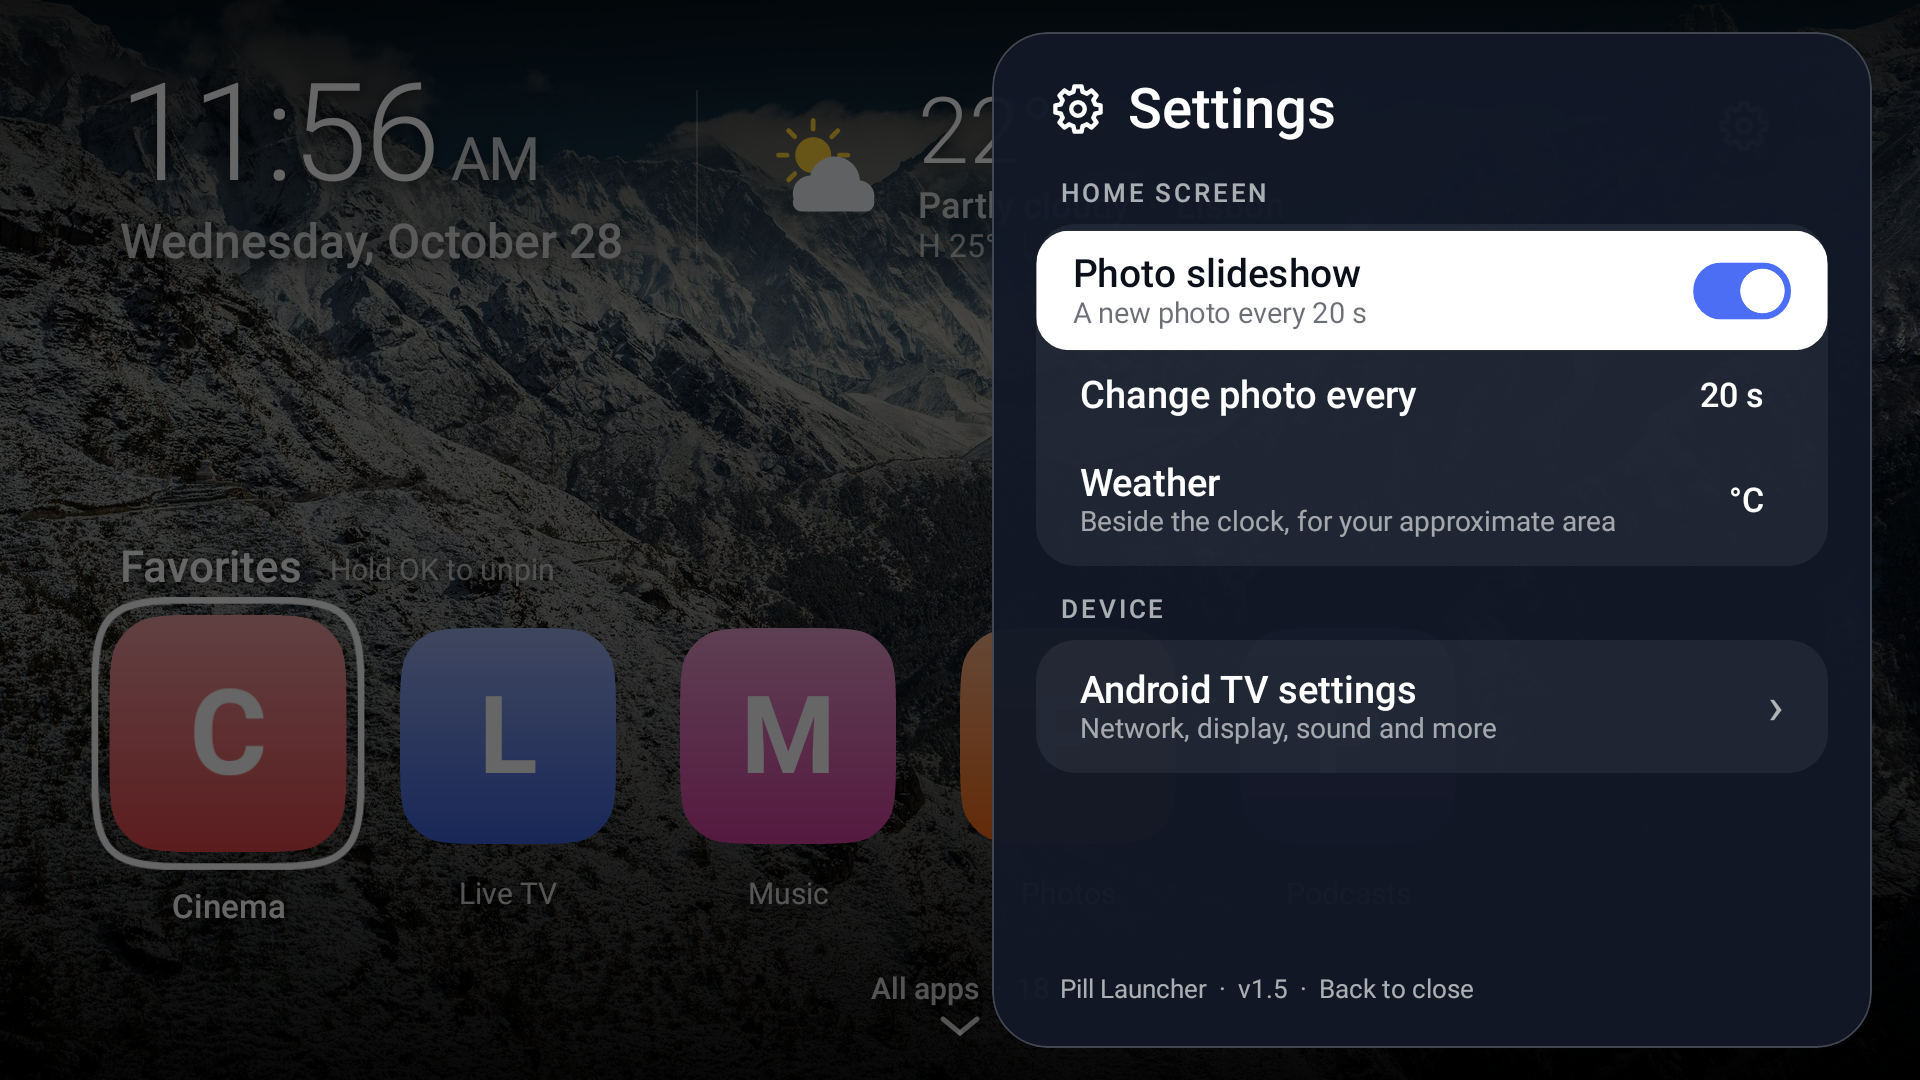
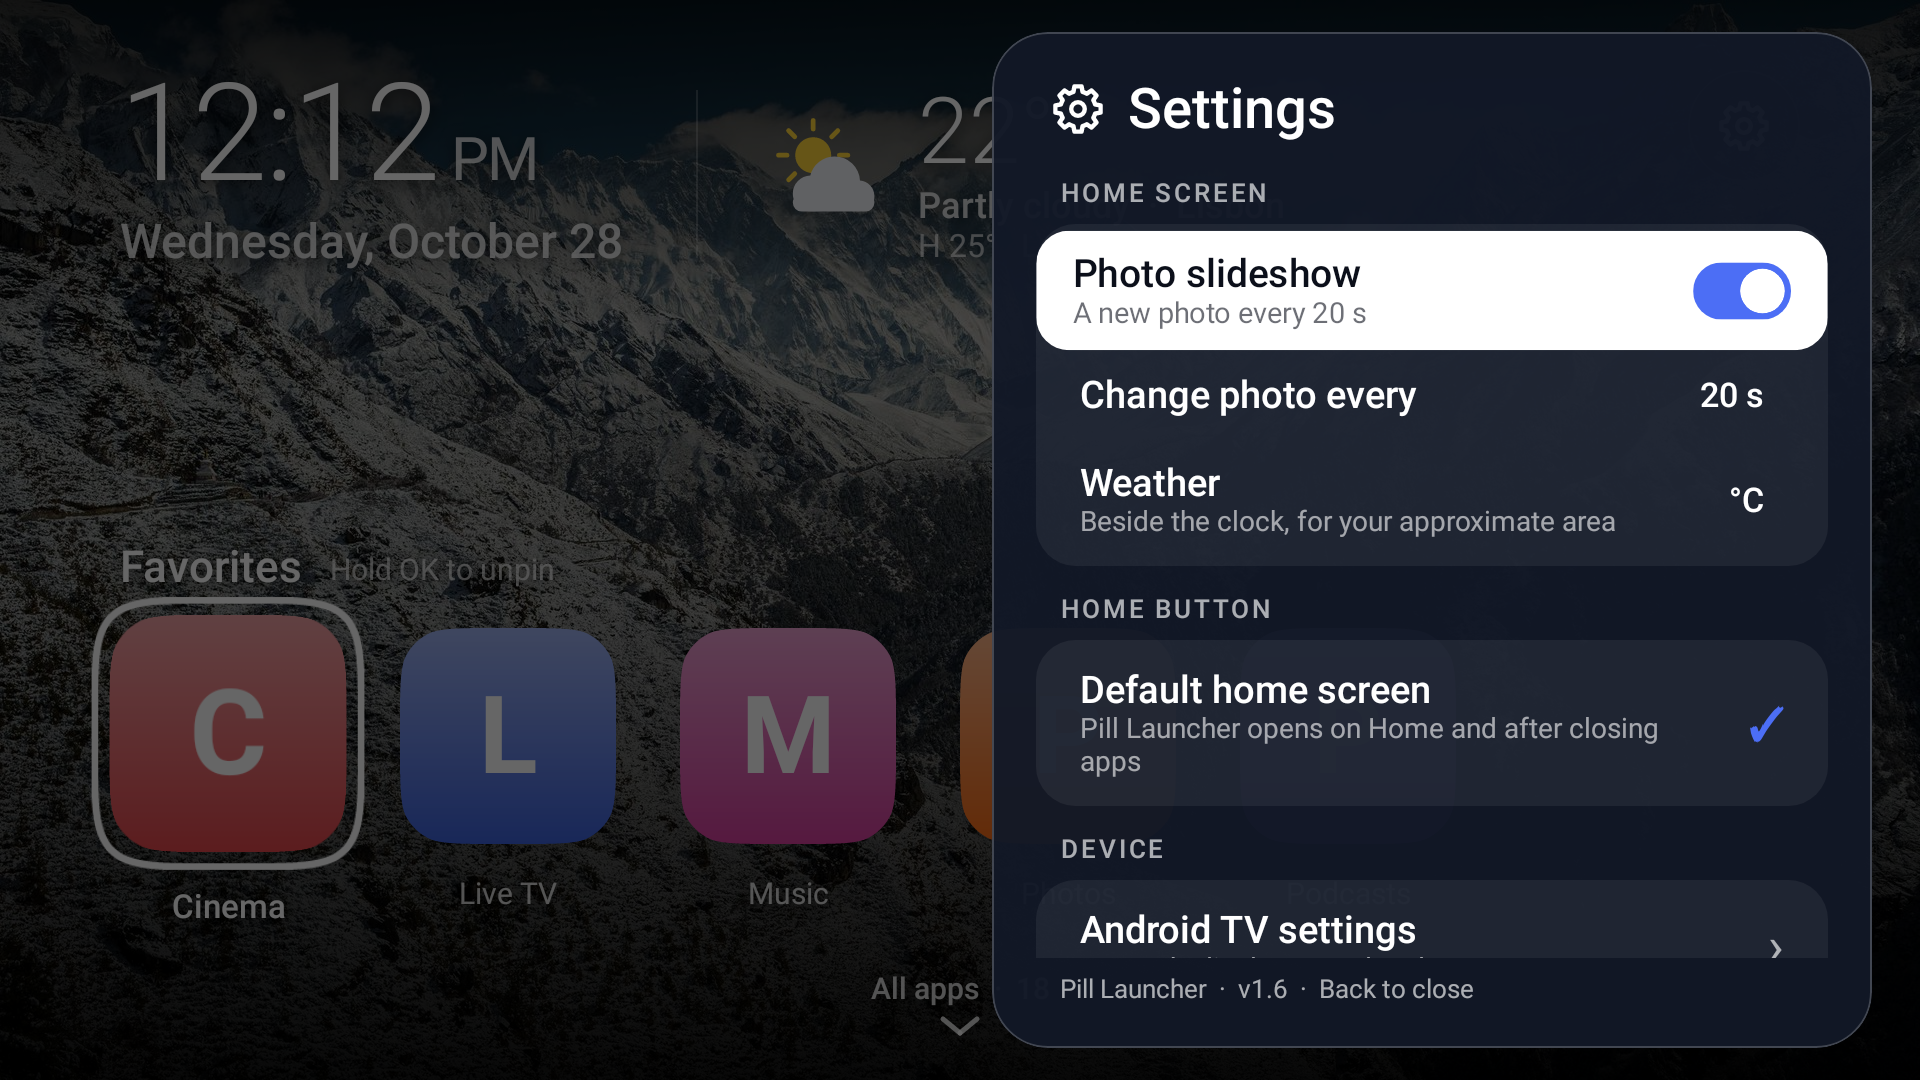
Pill Launcher 1.6: default home screen option and Home button helper (#10)
* Settings: make Pill Launcher the default home, or a Home button helper

- Default home screen: requests the home role (Android 10+), else opens the
  Home app settings, else the Home chooser; says so when the TV allows none
- Home button helper: an opt-in accessibility service for TVs that lock the
  home screen. When the stock launcher comes to the front (Home, an app closed
  or killed) it reopens Pill Launcher. It listens only to window-change events
  and never reads window content
- Both rows show their current state, re-checked when the launcher resumes
- Package visibility for the HOME intent; README, changelog, version 1.6

Claude-Session: https://claude.ai/code/session_01K2a1gPavAD836buEZXZJS4

* Update README screenshots

---------

diff --git a/app/src/main/java/app/pill/launcher/ui/SettingsPanel.kt b/app/src/main/java/app/pill/launcher/ui/SettingsPanel.kt
@@ -63,6 +63,7 @@ import androidx.compose.ui.unit.dp
 import androidx.compose.ui.unit.sp
 import androidx.compose.ui.window.Dialog
 import androidx.compose.ui.window.DialogProperties
+import app.pill.launcher.HomeStatus
 import app.pill.launcher.LauncherSettings
 import app.pill.launcher.WeatherMode
 import kotlinx.coroutines.delay
@@ -85,7 +86,13 @@ fun SettingsPanel(
     /** Why photos or weather last failed to load, shown under their rows; null when fine. */
     photoError: String? = null,
     weatherError: String? = null,
+    home: HomeStatus = HomeStatus(isDefault = true, redirectOn = false),
+    onMakeDefault: () -> String? = { null },
+    onHomeHelper: () -> String? = { null },
 ) {
+    // A message from the last attempt, shown under the row until the panel closes
+    var defaultNote by remember { mutableStateOf<String?>(null) }
+    var helperNote by remember { mutableStateOf<String?>(null) }
     val firstRow = remember { FocusRequester() }
     val visible = remember { MutableTransitionState(false).apply { targetState = true } }
     val close = { visible.targetState = false }
@@ -176,6 +183,30 @@ fun SettingsPanel(
                                 },
                             ) { focused ->
                                 Stepper(weatherLabel(settings.weather), mode > 0, mode < modes.lastIndex, focused)
+                            }
+                        }
+
+                        Group("Home button") {
+                            SettingRow(
+                                title = "Default home screen",
+                                subtitle = defaultNote ?: if (home.isDefault) {
+                                    "Pill Launcher opens on Home and after closing apps"
+                                } else {
+                                    "Make Pill Launcher open on Home and after closing apps"
+                                },
+                                onClick = { if (!home.isDefault) defaultNote = onMakeDefault() },
+                            ) { focused -> if (home.isDefault) Check(focused) else Chevron(focused) }
+
+                            if (!home.isDefault) {
+                                SettingRow(
+                                    title = "Home button helper",
+                                    subtitle = helperNote ?: if (home.redirectOn) {
+                                        "On: returns here whenever the TV's own home screen opens"
+                                    } else {
+                                        "For TVs that won't change their home screen. Turn on \"Pill Launcher Home button\" in Accessibility"
+                                    },
+                                    onClick = { helperNote = onHomeHelper() },
+                                ) { focused -> if (home.redirectOn) Check(focused) else Chevron(focused) }
                             }
                         }
 
@@ -326,6 +357,11 @@ private fun Stepper(value: String, canDecrease: Boolean, canIncrease: Boolean, f
         )
         if (focused) Text("›", color = color.copy(alpha = if (canIncrease) 0.85f else 0.2f), fontSize = 24.sp)
     }
+}
+
+@Composable
+private fun Check(focused: Boolean) {
+    Text("✓", color = if (focused) Palette.Ink else Palette.Accent, fontSize = 22.sp, fontWeight = FontWeight.Bold)
 }
 
 @Composable

diff --git a/app/src/main/java/app/pill/launcher/HomeSetup.kt b/app/src/main/java/app/pill/launcher/HomeSetup.kt
@@ -1,0 +1,67 @@
+package app.pill.launcher
+
+import android.app.Activity
+import android.app.role.RoleManager
+import android.content.ActivityNotFoundException
+import android.content.ComponentName
+import android.content.Context
+import android.content.Intent
+import android.content.pm.PackageManager
+import android.os.Build
+import android.provider.Settings
+
+/** Whether Pill Launcher is the home screen, and whether the Home-button helper is on. */
+data class HomeStatus(val isDefault: Boolean, val redirectOn: Boolean)
+
+fun Context.homeStatus() = HomeStatus(isDefaultHome(), isRedirectEnabled())
+
+private val homeIntent get() = Intent(Intent.ACTION_MAIN).addCategory(Intent.CATEGORY_HOME)
+
+fun Context.isDefaultHome(): Boolean =
+    packageManager.resolveActivity(homeIntent, PackageManager.MATCH_DEFAULT_ONLY)
+        ?.activityInfo?.packageName == packageName
+
+/** Packages of the other home screens on this TV (the stock launcher among them). */
+fun Context.otherHomePackages(): Set<String> =
+    packageManager.queryIntentActivities(homeIntent, 0)
+        .map { it.activityInfo.packageName }
+        .filter { it != packageName && it != "android" && !it.contains("settings", ignoreCase = true) }
+        .toSet()
+
+fun Context.isRedirectEnabled(): Boolean {
+    val me = ComponentName(this, HomeRedirectService::class.java).flattenToString()
+    val enabled = Settings.Secure.getString(contentResolver, Settings.Secure.ENABLED_ACCESSIBILITY_SERVICES).orEmpty()
+    return enabled.split(':').any { it.equals(me, ignoreCase = true) }
+}
+
+/**
+ * Asks Android to make Pill Launcher the home screen, trying in turn: the system's
+ * "default home app" request (Android 10+), the Home app settings screen, and the
+ * Home chooser. Returns a message for the user when none of these exist on this TV.
+ */
+fun Activity.requestDefaultHome(): String? {
+    if (Build.VERSION.SDK_INT >= Build.VERSION_CODES.Q) {
+        val roles = getSystemService(RoleManager::class.java)
+        if (roles != null && roles.isRoleAvailable(RoleManager.ROLE_HOME) && !roles.isRoleHeld(RoleManager.ROLE_HOME)) {
+            if (tryStart { startActivityForResult(roles.createRequestRoleIntent(RoleManager.ROLE_HOME), 1) }) return null
+        }
+    }
+    if (tryStart { startActivity(Intent(Settings.ACTION_HOME_SETTINGS)) }) return null
+    // With no default chosen yet, pressing Home shows a chooser; show it now
+    val resolved = packageManager.resolveActivity(homeIntent, PackageManager.MATCH_DEFAULT_ONLY)
+    if (resolved?.activityInfo?.packageName == "android" && tryStart { startActivity(homeIntent) }) return null
+    return "This TV doesn't let apps change the home screen. Turn on the Home button helper below instead."
+}
+
+fun Activity.openAccessibilitySettings(): String? =
+    if (tryStart { startActivity(Intent(Settings.ACTION_ACCESSIBILITY_SETTINGS)) }) null
+    else "Couldn't open Accessibility settings on this TV."
+
+private inline fun tryStart(block: () -> Unit): Boolean = try {
+    block()
+    true
+} catch (e: ActivityNotFoundException) {
+    false
+} catch (e: SecurityException) {
+    false
+}

diff --git a/app/src/main/java/app/pill/launcher/HomeRedirectService.kt b/app/src/main/java/app/pill/launcher/HomeRedirectService.kt
@@ -1,0 +1,50 @@
+package app.pill.launcher
+
+import android.accessibilityservice.AccessibilityService
+import android.content.Intent
+import android.os.SystemClock
+import android.view.accessibility.AccessibilityEvent
+
+/**
+ * Optional helper for TVs that don't let apps become the home screen (most Google TV
+ * devices). When the TV's own home screen comes to the front (Home pressed, or an app
+ * closed or killed), it brings Pill Launcher back. It only looks at which app's window
+ * appeared, never at what is on screen. The user turns it on in Accessibility settings.
+ */
+class HomeRedirectService : AccessibilityService() {
+
+    private var stockHomes: Set<String> = emptySet()
+    private var lastRedirect = 0L
+
+    override fun onServiceConnected() {
+        stockHomes = otherHomePackages() + KnownTvLaunchers
+    }
+
+    override fun onAccessibilityEvent(event: AccessibilityEvent) {
+        if (event.eventType != AccessibilityEvent.TYPE_WINDOW_STATE_CHANGED) return
+        val pkg = event.packageName?.toString() ?: return
+        if (pkg !in stockHomes || isDefaultHome()) return
+        // The stock launcher can post several window changes in a row; act once
+        val now = SystemClock.elapsedRealtime()
+        if (now - lastRedirect < 1500) return
+        lastRedirect = now
+        startActivity(
+            Intent(this, MainActivity::class.java)
+                .setAction(Intent.ACTION_MAIN)
+                .addCategory(Intent.CATEGORY_HOME)
+                .addFlags(Intent.FLAG_ACTIVITY_NEW_TASK or Intent.FLAG_ACTIVITY_RESET_TASK_IF_NEEDED),
+        )
+    }
+
+    override fun onInterrupt() = Unit
+
+    private companion object {
+        /** Stock launchers of Google TV and Android TV, in case they don't answer the Home query. */
+        val KnownTvLaunchers = setOf(
+            "com.google.android.apps.tv.launcherx",
+            "com.google.android.tvlauncher",
+            "com.google.android.leanbacklauncher",
+            "com.amazon.tv.launcher",
+        )
+    }
+}

diff --git a/app/src/main/java/app/pill/launcher/ui/LauncherScreen.kt b/app/src/main/java/app/pill/launcher/ui/LauncherScreen.kt
@@ -75,6 +75,7 @@ import androidx.compose.ui.text.font.FontWeight
 import androidx.compose.ui.unit.dp
 import androidx.compose.ui.unit.sp
 import app.pill.launcher.AppEntry
+import app.pill.launcher.HomeStatus
 import app.pill.launcher.LauncherSettings
 import app.pill.launcher.Weather
 import kotlinx.coroutines.delay
@@ -107,6 +108,11 @@ fun LauncherScreen(
     onOpenSystemSettings: () -> Unit,
     /** Bumped each time Home is pressed while the launcher is already showing. */
     homePresses: Int = 0,
+    home: HomeStatus = HomeStatus(isDefault = true, redirectOn = false),
+    /** Ask to become the home screen; returns a message if this TV can't. */
+    onMakeDefault: () -> String? = { null },
+    /** Open Accessibility settings for the Home button helper; returns a message on failure. */
+    onHomeHelper: () -> String? = { null },
 ) {
     var panelOpen by remember { mutableStateOf(false) }
     var photoError by remember { mutableStateOf<String?>(null) }
@@ -330,6 +336,9 @@ fun LauncherScreen(
                 onOpenSystemSettings = onOpenSystemSettings,
                 photoError = photoError,
                 weatherError = weatherError,
+                home = home,
+                onMakeDefault = onMakeDefault,
+                onHomeHelper = onHomeHelper,
                 onDismiss = { panelOpen = false },
             )
         }

diff --git a/app/src/main/java/app/pill/launcher/MainActivity.kt b/app/src/main/java/app/pill/launcher/MainActivity.kt
@@ -53,6 +53,9 @@ class MainActivity : ComponentActivity() {
                 }
             }
 
+            // Re-checked whenever the launcher comes back (e.g. from the Home app settings)
+            val home = remember(refresh) { homeStatus() }
+
             // A launcher never exits on Back
             BackHandler(enabled = true) { }
 
@@ -72,6 +75,9 @@ class MainActivity : ComponentActivity() {
                     store.savePins(pins)
                 },
                 homePresses = homePresses,
+                home = home,
+                onMakeDefault = { requestDefaultHome() },
+                onHomeHelper = { openAccessibilitySettings() },
                 onOpenSystemSettings = {
                     try {
                         startActivity(

diff --git a/README.md b/README.md
@@ -50,7 +50,9 @@
 2. Open it and enter `https://github.com/S1rHades/One-TVOS/releases/download/latest/launcher.apk`.
 3. Allow Downloader to install unknown apps when Android asks, then choose **Install**.
 
-To make it your home screen, press **Home** on the remote. If the TV asks which app to use, choose **Pill Launcher** and **Always**. Some TVs, including most Google TV devices, never ask; on those, open Pill Launcher from the apps list instead.
+To make it your home screen, open **Settings** (the gear) → **Default home screen**. Android asks you to confirm; after that, Home and closing or killing any app bring you back to Pill Launcher.
+
+Many TVs, most Google TV devices among them, don't let any app replace the home screen. On those, use **Settings → Home button helper**: it opens Accessibility settings, where you turn on **Pill Launcher Home button**. Whenever the TV's own home screen opens (Home pressed, an app closed or killed), the helper brings Pill Launcher straight back. It only checks which app came to the front, never what is on screen. On Android 13 and later, a sideloaded app's accessibility switch may be greyed out at first: open **Settings → Apps → Pill Launcher**, choose **⋮ → Allow restricted settings**, then turn it on.
 
 The `latest` release is rebuilt automatically every time `main` changes, so installing it again always gets you the newest version.
 

diff --git a/CHANGELOG.md b/CHANGELOG.md
@@ -3,6 +3,11 @@
 Pill Launcher is built from `main` on every change; the newest build is always the
 [`latest` release](https://github.com/S1rHades/One-TVOS/releases/tag/latest).
 
+## 1.6 (October 2026)
+
+- **Settings → Default home screen** makes Pill Launcher the TV's home screen, so Home and closing or killing an app always bring you back here.
+- **Settings → Home button helper**, for TVs that don't allow another home screen (most Google TV devices): once turned on in Accessibility settings, it brings Pill Launcher back whenever the TV's own home screen opens. It only checks which app came to the front, never what's on screen.
+
 ## 1.5 (October 2026)
 
 - **Background photos are built into the app**, so they always appear, even on networks that block photo sites. Twelve nature photos: mountains, lakes, coasts, forests and a waterfall.
